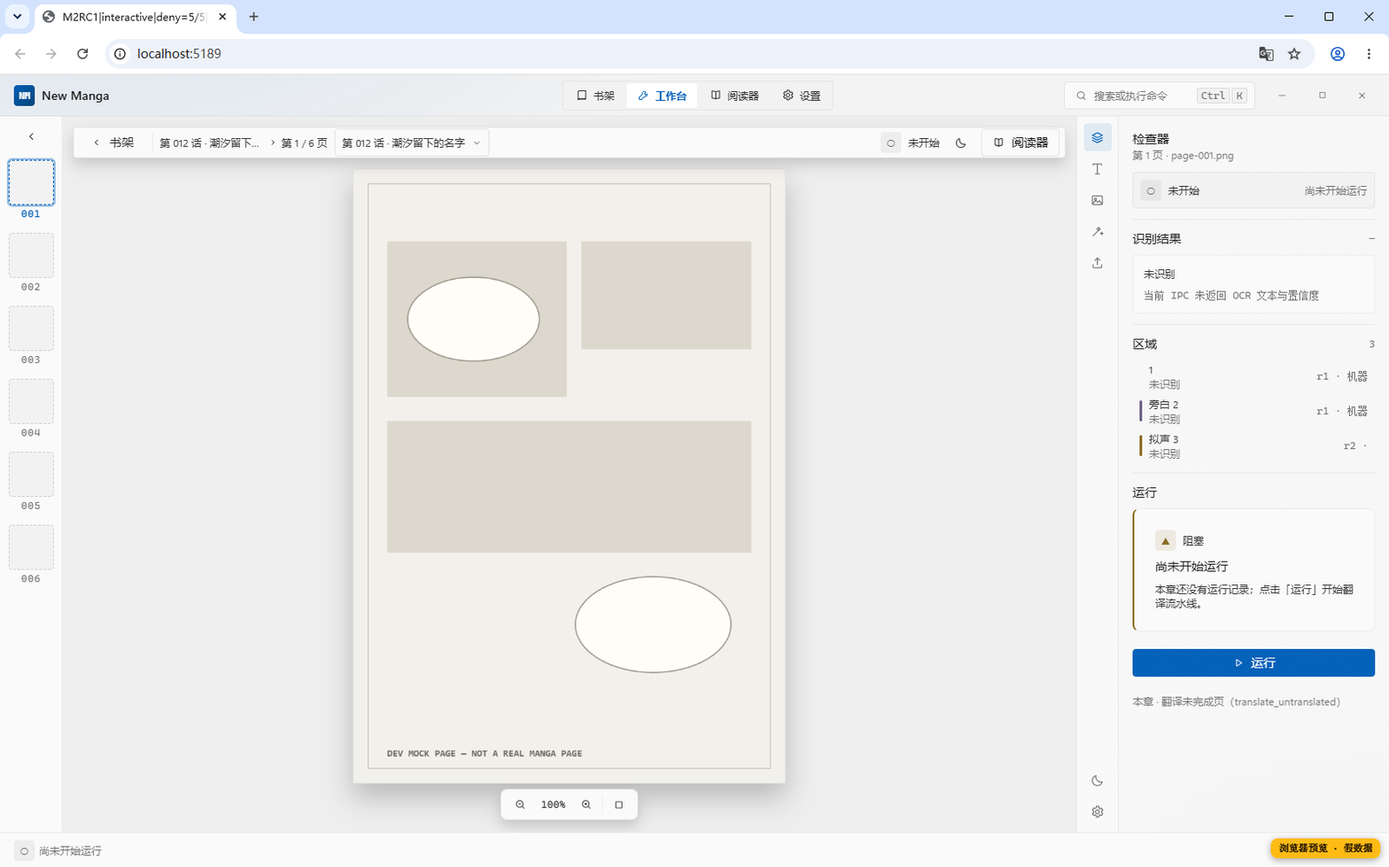
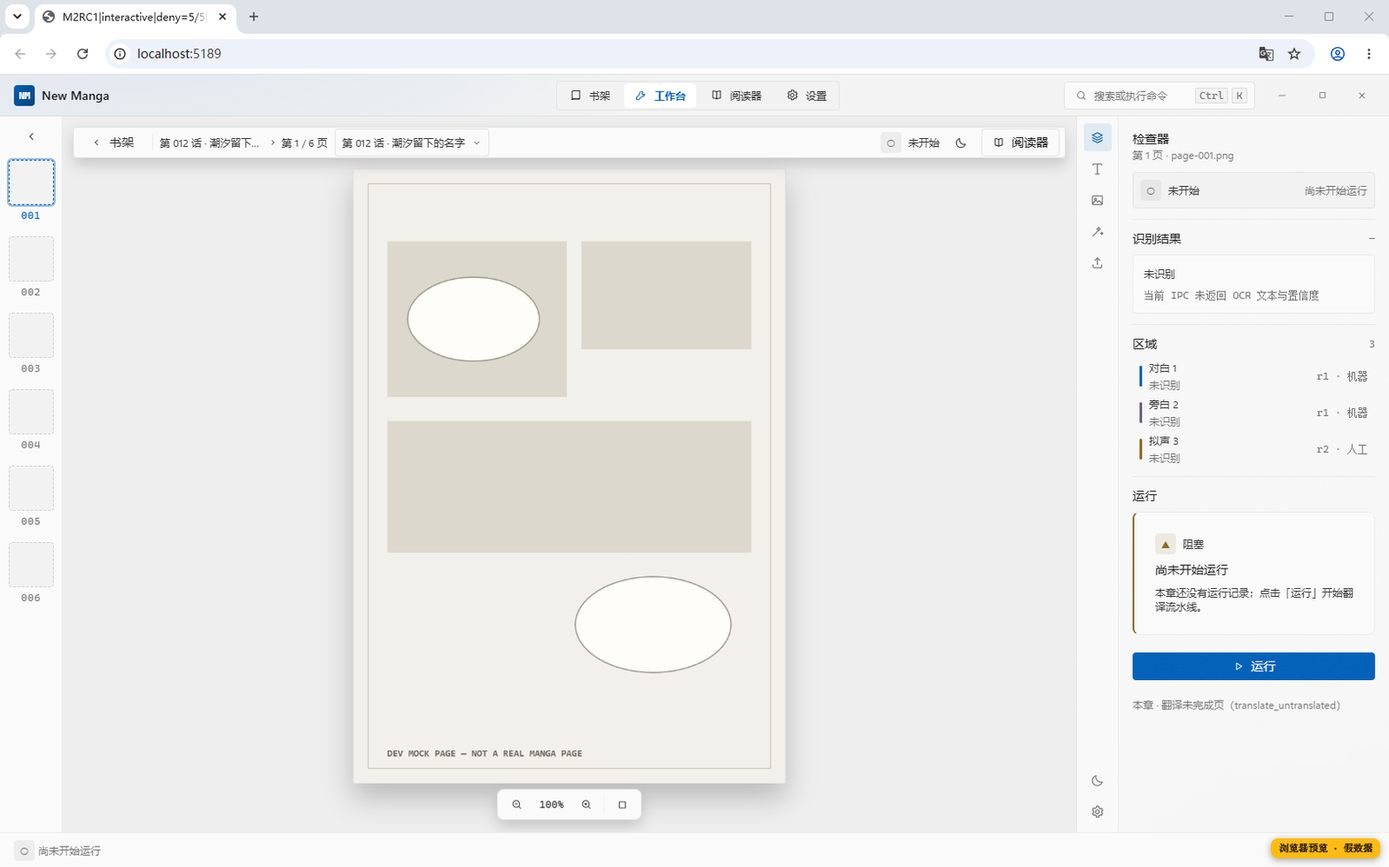
fix(ui): close the independent review findings for UIUX-V2-RUNTIME-1
ZCode r1 (verification/UIUX-V2-RUNTIME-1/review-zcode-r1.md) returned
changes_requested with 0xP0 / 1xP1 / 1xP2 / 5xP3. Disposition:

- F-1 (P1): the shelf page had zero test coverage for the honest-data rule,
  proven by the reviewer's mutation check (progress:null -> 42 kept all 561
  tests green). Adds src/pages/Shelf.test.tsx with three guards; DSH re-ran
  the mutation and the new test fails on it, then passes again after revert.
- F-2 (P2): the dev mock used out-of-enum region values (dialogue/manual/
  preserve) so the workbench inspector rendered a crippled region row in
  shots/03. Mock now uses speech|narration|sfx, machine|user and
  translate|skip; shots/03 re-captured and visual-verification.md updated
  with the finding and the fix.
- F-3: tsc/vitest evidence re-captured without the REVIEW_HEAD_PENDING
  placeholder and with an explicit collection-time note.
- F-4: PageEmpty now carries role=status, matching the other three states.
- F-5/F-7: remaining literal colours and the design-preview Esc key hint are
  registered as debt (R7) instead of widening this task's scope.
- F-6: appointment range description corrected; PrimaryNav comment updated.

tsc exit 0; vitest 60 files / 564 tests pass.

diff --git a/apps/desktop/frontend/src/pages/Shelf.test.tsx b/apps/desktop/frontend/src/pages/Shelf.test.tsx
@@ -1,0 +1,179 @@
+// @vitest-environment jsdom
+import { act } from "react";
+import { createRoot, type Root } from "react-dom/client";
+import { afterEach, beforeEach, describe, expect, it, vi } from "vitest";
+import type { BookSummary, ChapterNavSummary, PageNavSummary } from "../library/types";
+import { Shelf } from "./Shelf";
+import type { PageChrome, PageRuntime } from "../ui/types";
+
+/**
+ * 书架页「运行时不得回填 fixtures」的机械守卫。
+ *
+ * 背景（ZCode 独立审查 F-1，P1）：本 Task 的 AC8 把「跨书进度」写进诚实字段
+ * 清单，但四页里只有书架页没有反断言。审查者做变异核验——把运行时
+ * `progress: null` 改成 `progress: 42`——561 条测试全绿、零拦截，说明这条
+ * 数据纪律当时只靠人工自查兜底。
+ *
+ * 本文件只做一件事：喂进真实形状的 IPC 数据，断言书卡上**不出现**任何 fixtures
+ * 才有的字段（进度条 / 百分比 / VOL. 卷号 / 七态标记 / 假作者名）。
+ */
+
+let root: Root | undefined;
+let container: HTMLDivElement | undefined;
+
+const BOOKS: BookSummary[] = [
+  {
+    book_id: "book-1",
+    title: "雾港来信",
+    original_title: "霧港からの手紙",
+    is_favorite: true,
+    is_archived: false,
+    page_count: 128,
+    created_at: "2026-09-01T00:00:00Z",
+    updated_at: new Date(Date.now() - 12 * 60_000).toISOString(),
+  },
+  {
+    book_id: "book-2",
+    title: "白昼残响",
+    original_title: "",
+    is_favorite: false,
+    is_archived: true,
+    page_count: null,
+    created_at: "2026-09-02T00:00:00Z",
+    updated_at: new Date(Date.now() - 60 * 60_000).toISOString(),
+  },
+];
+
+const CHAPTERS: ChapterNavSummary[] = [
+  { chapter_id: "ch-1", title: "潮汐留下的名字", chapter_number: "012", sort_order: 12 },
+  { chapter_id: "ch-2", title: "第七盏路灯", chapter_number: "011", sort_order: 11 },
+];
+
+const PAGES: PageNavSummary[] = [
+  { page_id: "p-1", source_filename: "page-001.png", sort_order: 1 },
+  { page_id: "p-2", source_filename: "page-002.png", sort_order: 2 },
+  { page_id: "p-3", source_filename: "page-003.png", sort_order: 3 },
+];
+
+function makeRuntime() {
+  const library = {
+    listBooks: vi.fn(async () => BOOKS),
+    corePing: vi.fn(async () => ({
+      status: "ok",
+      protocol_version: { major: 2, minor: 1 },
+      capabilities: ["library"],
+    })),
+    listChapters: vi.fn(async () => CHAPTERS),
+    listChapterPages: vi.fn(async () => PAGES),
+  };
+  const chrome: PageChrome = {
+    theme: "dark",
+    activePage: "shelf",
+    onNavigate: vi.fn(),
+    onToggleTheme: vi.fn(),
+    onOpenCommand: vi.fn(),
+    commandOpen: false,
+    context: { bookId: null, chapterId: null },
+    onOpenBook: vi.fn(),
+    onSelectChapter: vi.fn(),
+  };
+  const runtime = {
+    chrome,
+    clients: {
+      invoke: vi.fn(async () => null),
+      library,
+      workbench: {},
+      region: {},
+      resource: {},
+      reader: {},
+      settings: {},
+    },
+  } as unknown as PageRuntime;
+  return { runtime, library, chrome };
+}
+
+async function mountShelf(runtime: PageRuntime) {
+  container = document.createElement("div");
+  document.body.appendChild(container);
+  root = createRoot(container);
+  await act(async () => {
+    root?.render(
+      <Shelf
+        activePage="shelf"
+        theme="dark"
+        onNavigate={() => undefined}
+        onToggleTheme={() => undefined}
+        runtime={runtime}
+      />,
+    );
+    // 两跳：listBooks → setState，然后 listChapters/listChapterPages → setState。
+    await Promise.resolve();
+    await Promise.resolve();
+    await Promise.resolve();
+    await Promise.resolve();
+  });
+  return container;
+}
+
+beforeEach(() => {
+  document.body.innerHTML = "";
+});
+
+afterEach(() => {
+  act(() => root?.unmount());
+  root = undefined;
+  container = undefined;
+});
+
+describe("Shelf runtime data discipline（AC8 反 fixtures 回填）", () => {
+  it("renders only IPC-backed fields and never fabricates progress/volume/state", async () => {
+    const { runtime, library } = makeRuntime();
+    const host = await mountShelf(runtime);
+
+    // 真实数据确实渲染出来了（否则下面的"不出现"断言会因空页面而假通过）。
+    expect(library.listBooks).toHaveBeenCalledTimes(1);
+    const card = host.querySelector('[data-testid="book-book-1"]');
+    expect(card).not.toBeNull();
+    expect(card?.textContent).toContain("雾港来信");
+    expect(card?.textContent).toContain("128 页");
+    // 原名只出现在详情面板（书卡只放书名/页数/更新时间）。
+    expect(host.querySelector('[data-testid="shelf-detail"]')?.textContent).toContain("霧港からの手紙");
+    // 页数未知必须显式写"页数未知"，而不是编造 0 或沿用 fixtures 数值。
+    expect(host.querySelector('[data-testid="book-book-2"]')?.textContent).toContain("页数未知");
+
+    // 跨书进度没有 IPC 来源 → 既不画进度条也不显示百分比。
+    expect(host.querySelectorAll(".nm-book-grid .nm-progress")).toHaveLength(0);
+    expect(host.querySelector(".nm-book-grid")?.textContent).not.toMatch(/\d+\s*%/);
+
+    // 卷号 / 跨书七态 / fixtures 假作者名与假计数同样不得出现。
+    expect(host.textContent).not.toContain("VOL.");
+    expect(host.querySelectorAll('.nm-book-grid [data-testid^="status-"]')).toHaveLength(0);
+    for (const fake of ["南野灯", "绫濑千景", "18 话", "1280 页", "设计预览"]) {
+      expect(host.textContent).not.toContain(fake);
+    }
+  });
+
+  it("shows real chapters and page counts without inventing chapter states", async () => {
+    const { runtime } = makeRuntime();
+    const host = await mountShelf(runtime);
+
+    const chapters = host.querySelectorAll('[data-testid="chapter-list"] li');
+    expect(chapters).toHaveLength(CHAPTERS.length);
+    expect(chapters[0].textContent).toContain("潮汐留下的名字");
+    expect(chapters[0].textContent).toContain("012");
+    // 每章页数来自 list_chapter_pages（3 页），不是 fixtures 的 24p/22p。
+    expect(chapters[0].textContent).toContain("3p");
+    expect(host.querySelector('[data-testid="chapter-list"]')?.textContent).not.toContain("24p");
+    // 章节流水线状态同样无 IPC 来源 → 不画状态标记。
+    expect(host.querySelectorAll('[data-testid="chapter-list"] [data-testid^="status-"]')).toHaveLength(0);
+  });
+
+  it("keeps the honest empty library state when Core returns no books", async () => {
+    const { runtime, library } = makeRuntime();
+    library.listBooks.mockResolvedValueOnce([]);
+    const host = await mountShelf(runtime);
+
+    expect(host.querySelector('[data-testid="shelf-empty"]')).not.toBeNull();
+    expect(host.querySelectorAll(".nm-book-card")).toHaveLength(0);
+  });
+});

diff --git a/apps/desktop/frontend/src/dev/devMockBridge.ts b/apps/desktop/frontend/src/dev/devMockBridge.ts
@@ -122,10 +122,15 @@ const EMPTY_READS: Record<string, unknown> = {
   },
   revoke_ref: { revoked: true },
   list_regions: () => ({
+    // 枚举必须取自冻结闭集（region/types.ts）：RegionType 六值
+    // speech|narration|sfx|title|note|other；RegionOrigin 四值
+    // machine|user|imported|restored；SfxPolicy 三值 skip|translate|manual。
+    // 用闭集外的值（如 dialogue / manual / preserve）会让 UI 查表得 undefined
+    // 并渲染出残缺行——ZCode 审查 F-2 就是靠截图发现这里写错了。
     regions: [
-      { region_id: "region-1", region_type: "dialogue", sfx_policy: "preserve", origin: "machine", revision_no: 1 },
-      { region_id: "region-2", region_type: "narration", sfx_policy: "preserve", origin: "machine", revision_no: 1 },
-      { region_id: "region-3", region_type: "sfx", sfx_policy: "translate", origin: "manual", revision_no: 2 },
+      { region_id: "region-1", region_type: "speech", sfx_policy: "translate", origin: "machine", revision_no: 1 },
+      { region_id: "region-2", region_type: "narration", sfx_policy: "skip", origin: "machine", revision_no: 1 },
+      { region_id: "region-3", region_type: "sfx", sfx_policy: "translate", origin: "user", revision_no: 2 },
     ],
     page_size: { width: 1440, height: 2048 },
   }),

diff --git a/apps/desktop/frontend/src/components/PrimaryNav.tsx b/apps/desktop/frontend/src/components/PrimaryNav.tsx
@@ -36,8 +36,9 @@ export interface PrimaryNavProps {
  * 方向键就再也收不到了。所以把目标记在模块级，等新页面的 PrimaryNav 挂载、
  * activePage 生效之后再 focus。
  * 契约：`onNavigate(id)` 最终必须使本组件的 `activePage` 变成 `id`，否则标记会滞留，
- * 直到之后某次激活恰好命中该值时才错误抢一次焦点。当前三个调用方都是
- * DesignPreview 直接传入的 setPage，满足契约。
+ * 直到之后某次激活恰好命中该值时才错误抢一次焦点。当前五个消费点（运行时四页经
+ * `ui/UiRoot`、静态设计预览经 `pages/DesignPreview`）都直接把自己持有的页状态
+ * 写回，满足契约。
  */
 let pendingFocusTarget: DesignPage | null = null;
 

diff --git a/apps/desktop/frontend/src/ui/PageState.tsx b/apps/desktop/frontend/src/ui/PageState.tsx
@@ -63,7 +63,7 @@ export function PageEmpty({
 }: PageEmptyProps) {
   const state: StatusState = kind === "filtered" ? "skipped" : "notStarted";
   return (
-    <div className="nm-state" data-testid={testId}>
+    <div className="nm-state" data-testid={testId} role="status">
       <span className="nm-state__icon" aria-hidden="true">
         <Icon name={icon} size={22} />
       </span>

diff --git a/verification/UIUX-V2-RUNTIME-1/review-zcode-r1.md b/verification/UIUX-V2-RUNTIME-1/review-zcode-r1.md
@@ -1,0 +1,134 @@
+# Review：UIUX-V2-RUNTIME-1（ZCode r1）
+
+decision: changes_requested
+reviewed_head: 1853f0a07
+base_commit: b51d202c9
+
+- Reviewer：ZCode（未参与本 Task 任何实现；独立只读审查 + 任命书允许的复跑与变异核验）。
+- 审查日期：2026-10-25（Asia/Shanghai）。
+- 审查方式：冻结 diff 全量精读（`git diff b51d202c9 1853f0a07`）、全部新增/改写源码与测试逐文件阅读、CSS 令牌逐值人工比对、tsc/vitest 独立复跑、两处变异核验（改坏→确认红/绿→原样还原）、证据截图 01/03/07 与活体截图（`localhost:5189` 默认路径与 `?view=console`）经视觉模型交叉核对。
+- 范围披露（审查开始时已核实）：冻结区间除 `apps/desktop/frontend/src/**` 与 `verification/UIUX-V2-RUNTIME-1/**` 外，还包含前置治理提交 `f7e63c70c`（`doc/STATUS.md`、`doc/REBASELINE_PLAN.md`、两个 `GIT-CLEAN-RUST-*` 任务卡的 Reviewer 改派，纯治理无技术内容）。任命方 DSH 已在工作树未提交的 `APPOINTMENT.md` 修订中如实披露该事实并指示跳过；本 review 的技术结论仅针对 UI 交付提交 `1853f0a07`。工作树在审查开始时已有两处 DSH 未提交改动（`doc/tasks/UIUX-V2-RUNTIME-1.md` 新增 R6 登记与上述 APPOINTMENT 修订），本审查未触碰。
+
+## 各轴结论
+
+### 1. 正确性 — PASS
+
+- 四页状态机互斥自洽：`Shelf.tsx` phase（loading/ready/empty/error）与 chaptersPhase（idle/loading/ready/error）互斥渲染（`pages/Shelf.tsx:713-767,857-898`）；`Workbench.tsx` 章节/页面/页图/区域/运行五段各自独立四态（`pages/Workbench.tsx:957-1016,1120-1300,1330-1361`）；`Reader.tsx` 用判别联合 `ReaderData`（`pages/Reader.tsx:301-320,628-712`）；`Settings.tsx` 整页 readiness 三态（`pages/Settings.tsx:224-244`）。
+- Blob URL 生命周期：工作台三重回收——`replaceImageUrl` 链式回收旧 URL（`pages/Workbench.tsx:612-617`）、页图 effect cleanup 回收 `createdUrl`（`750-756`）、组件卸载兜底回收 `currentUrlRef`（`791-798`）；阅读器 effect cleanup 回收（`pages/Reader.tsx:537-540`）。切页 revoke 有测试实证（`Workbench.test.tsx:477-485`、`Reader.test.tsx:327-328`）。
+- 轮询：`runPolling` 只在 run 存在且未终结时开 1s interval（`Workbench.tsx:878-890`），`runReadRef` 防重入（`814-844`），卸载 clearInterval 且卸载后不再取数有测试实证（`Workbench.test.tsx:413-421`：unmount 后 1200ms 窗口调用数不增）。
+- 越界保护：阅读器 `safeIndex` 渲染前收敛（`Reader.tsx:482`）、`move`/键盘翻页双向 clamp 且章末不重复写回（`561-565,571-577`，测试 `Reader.test.tsx:331-334`）；工作台页序完全由 IPC 列表派生（`Workbench.tsx:905-909`）。换章/换页重置旧状态（`Workbench.tsx:619-622,800-812`；`Reader.tsx:389-476` 换上下文全量重置）。
+- malformed 输入防御：章节/页面 `isSafeUiId` 校验，坏 ID → `PAGE_NAV_MALFORMED` 错误态而非静默渲染（`Workbench.tsx:639-645,688-692`）。
+
+### 2. 诚实数据 — PASS（实现层）；测试守卫有缺口（见 F-1、F-2）
+
+- fixtures 隔离：`PREVIEW_BOOKS`/`PREVIEW_CHAPTERS` 只在 `usePreviewView`（无 runtime）使用（`pages/Shelf.tsx:135-219`）；`STAGES`/`PAGES`/`REGIONS` 只在 `DesignWorkbench`（`pages/Workbench.tsx:50-84,249-468`）；Reader fixture 限 `ReaderFixture`。运行时组件树与 fixture 组件树互斥整页分发（`Workbench.tsx:1536-1539`、`Reader.tsx:45-50`、`Shelf.tsx:1080-1082`），不存在同树混渲染。
+- 无来源字段处理逐一核实：书架 `volume/progress/state` 运行时为 null 且渲染条件省略（`Shelf.tsx:343-365,785-811`）、页数未知标「页数未知」（`354,375`）；工作台 OCR 文本/置信度「未识别 + 当前 IPC 未返回」、区域文本「未识别」、缩略图未知占位（`nm-wb-thumb--unknown`，不画假图案）、流水线参数只渲染 IPC 真实 provider/model/device、无 run 时不画进度条（`Workbench.tsx:1246-1326,1417-1457`）；阅读器进度未知显示「—」并标错误码、书名查不到显示「—」、webtoon_vertical 显式 PageBlocked 且不拉页图（`Reader.tsx:432-449,579-712`，测试 `Reader.test.tsx:416-475,435-462`）；设置页 sfx null = 「未设置（按 Core 默认）」、设计预览逐节显式 BLOCKED 不展示数值（`Settings.tsx:210-222,349-361`）。
+- 反断言：`Workbench.test.tsx:364-382` 对 7 项 fixtures 假数据（雾港来信/manga-ocr/0.94/62%/第 12 话等）逐条 not.toContain。
+- dev mock 常驻「浏览器预览 · 假数据」角标、未列出命令 `MOCK_DENIED` 拒绝（`dev/devMockBridge.ts:233-239,313-334`）。
+- 缺口：书架页运行时数据纪律无任何测试（变异核验实证，见复跑记录 M-1 与 F-1）；dev mock region 数据违背冻结枚举（F-2）。
+
+### 3. 单一 UI — PASS
+
+- 生产窗默认只渲染 `UiRoot`：`App.tsx:529-535`（`legacyRequested ? <AppShell/> : <UiRoot/>`，AppShell 仅 `?view=legacy` 显式回退）。
+- 运行时根不 import 任何历史页面容器：`ui/UiRoot.tsx:1-20` import 清单核实（只有 `pages/Shelf|Workbench|Reader|Settings` 与共享件）；源码级守卫 `ui/UiRoot.test.tsx:142-155` 用正则断言 `UiRoot.tsx` 不含 `shell/AppShell|bookshelf/BookshelfPage|workbench/WorkbenchPage|reader/ReaderPage|settings/SettingsPage`，并断言 `App.tsx` 中 AppShell 仅出现在 legacy 三元、默认分支为 `<UiRoot`。
+- 冻结路径零改动：`App.tsx` 的冻结 diff 只有两个 hunk（+1 import、生产窗分支替换），probe/AC1/console 探测逻辑与 deny matrix 字节未动（`git diff b51d202c9 1853f0a07 -- src/App.tsx`）。
+- 活体验证：`http://localhost:5189/?view=console` headless 截图（本次活体抽查）确认冻结控制台未被 v2 样式污染（无品牌栏/亚克力/角标，deny matrix IP-1..IP-5 照常渲染）；默认路径截图确认为 v2 书架 + 假数据角标。
+- 测试：`App.test.tsx:176-178` 生产模式断言 `app-root` 存在 **且** `app-shell` 不存在。
+
+### 4. 设计规则 — PASS（含 P3 登记项）
+
+- 圆角：新增/改写 CSS 全部走 `--nm-radius-overlay|control|cell`（8/4/2）；`ui/ui.css`、`pages/workbench.css`、`pages/reader-settings.css` 逐条核对无字面圆角、无第 4 档值。唯一字面 `border-radius: 8px`（`pages.css:1254`，page-sheet 装饰内框）为 base 冻结既有且值在档。
+- 字号：新增 CSS 全走 `--nm-text-*`（28/20/14/12）；字面小字号仅存在于封面装饰（8/9/22px，`pages.css:317-348`）与漫画页占位图案（7/11px，`pages.css:1189-1324`），属 AC1 声明的「封面与漫画页等装饰字豁免」范围。`theme/tokens.ts:35-42` 字阶全部取 28/20/14/12 内的值。
+- 间距：`pages.css` 的 gap 字面值（1/2/4/5/6px）全部改走 `--nm-space-*`（冻结 diff 逐 hunk 实证，AC10）；新增 CSS 的 gap/padding/margin 全走令牌。base 既有的非 gap 字面 padding（约 21 处）与 `base.css` `.nm-chip gap:6px` 为 DESIGN-V2-IMPL-1 冻结值，本 Task 未新增，且已由 DSH 在未提交的 Task 卡修订以 R6 如实登记（建议提交该修订，见 F-6）。
+- 颜色：新增三个 CSS 文件零字面色值；运行时 TSX 内联样式仅 CSS 变量引用（`--region-tone` 取自 `REGION_TYPE_TONE` 全 var 表，`Workbench.tsx:515-522`）。字面色值仅剩三类，均为 base 冻结装饰内容：封面 tint（`Shelf.tsx:83-92`，注释声明不冒充真实封面）、漫画页占位图案色（page-sheet/filmstrip-mini）、`.nm-window-btn--close:hover #FFFFFF` 与 `.nm-command-backdrop rgba(0,0,0,0.32)`（`pages.css:161-164,624`）——后两处建议后续顺手令牌化（F-5）。
+- 无 emoji：组件与 CSS 逐文件核对无 emoji；七态由 `StatusMark` 三重编码（状态色类 + 几何符号 ◐●✗▲▨–○ + 文字 label，`components/StatusMark.tsx:23-32`；`showLabel=false` 时 label 走 `nm-sr-only` 供读屏）。
+- backdrop-filter ≤2：三档亚克力（acrylic/acrylic-24/acrylic-strong）+ `.nm-acrylic-off` 降级（`design/acrylic.css`）；`useAcrylicBudget` 统一裁决（`design/useAcrylicBudget.ts:36-76`）；四页声明层与命令面板开启时的降级（Shelf `pages/Shelf.tsx:482-487`、Workbench `pages/Workbench.tsx:562-569`、Reader `pages/Reader.tsx:377-386`、Settings `pages/Settings.tsx:146-159`）全部有测试断言同屏 `.nm-acrylic*` 计数 ≤2（`DesignPreview.test.tsx:66,82,105,124`、`Workbench.test.tsx:357-361,468-475`、`Reader.test.tsx:309-311,386-389`、`Settings.test.tsx:277-279`）。命令面板 backdrop 本身无 backdrop-filter（`pages.css:616-625`）。
+- 阴影：仅 `--nm-elevation-8/16` 两档 + focus ring（`0 0 0 Npx` 描边环，非投影）；内容面板（`.nm-state`/`.nm-stat`/`.nm-ocr-box` 等）零 box-shadow。
+
+### 5. 令牌单一真相 — PASS
+
+- 逐值人工比对：`theme/tokens.ts` 的 dark/light 全部色值与 `design/tokens.css` 对应变量逐字节一致（bg.app/rail/toolbar→canvas/mica/layer、surface.card、accent.primary/selected/hover、text.primary/secondary/muted/inverse、focus.ring、border.default/divider/selected；`state.favorite/archived` 是 `--nm-status-blocked/skipped` 的显式别名映射，其余五态同名直映）。间距 4/8/12/16/24 = `--nm-space-1..5`；圆角 4/8/2 = control/overlay/cell；字族栈归一化后相等。
+- 守卫：`theme/tokens.test.ts` 用 23 条硬编码「TS 字段 ↔ CSS 变量」连线对 dark+light 逐值断言（`tokens.test.ts:34-89`，映射写死防命名猜测假断言），另覆盖间距/圆角/字阶四档/字族/Proxy 切换。
+- 主题切换影响内联样式消费者：`tokens` 是 Proxy，顶层属性按 `activeTheme` 现取（`tokens.ts:177-194`）；`useThemeController` 渲染期同步 `setTokenTheme(theme)` 保证首帧即正确主题（`ui/theme.ts:44-46`），setter 先写令牌再触发 React 更新（`58-71`）；`<html data-theme>` 由 layout effect 同步驱动 CSS 变量层（`48-56`）。
+- 模块级常量冻结（R1）：`settings/SectionField.tsx:29-63` 把 `settingsInputStyle/settingsSelectStyle` 改为「键集合固定、取值按当前主题现算」的访问器属性对象（注释说明不用 Proxy 的 ownKeys 原因），`theme/themeReactiveStyles.test.ts` 3 条直接断言常量随主题换值 + 键集稳定。这是唯一被触碰的既有 settings 文件，与 Task 声称一致。
+
+### 6. 可访问性 — PASS
+
+- 命令面板（`ui/CommandPalette.tsx`）：Tab 圈禁（`trapTab` 首末环绕，`113-130`）；面板 Esc + window 级 Esc 双保险（`81-87,134-137`）；`aria-activedescendant` 随高亮项更新、`role=combobox/listbox/option` + `aria-selected`（`199-243`）；关闭后焦点还原唤起元素（cleanup `isConnected` 防护，`89-95`）；开面板即聚焦输入框（effect 内同步 focus，注释说明为何不用 rAF，`69-74`）。7 条测试覆盖全通路（`CommandPalette.test.tsx:57-171`，含「焦点逃到面板外 Esc 仍生效」「Tab 从末项绕回首项」「关闭还原 opener 焦点」）。
+- PrimaryNav：roving tabindex（当前页 tabIndex=0 其余 -1）、←→/Home/End 切页、跨页 pendingFocusTarget 机制（切页卸载旧页后焦点落到新页同名 tab）、点击也走焦点路径（`components/PrimaryNav.tsx:42-106`；测试 `DesignPreview.test.tsx:167-199`）。
+- 设置页分节 tablist：roving tabindex + ↑↓/Home/End + 同步 focus，主题/页脚不进 tablist，tabpanel `aria-labelledby` 关联（`pages/Settings.tsx:184-206,321-348`；测试 `Settings.test.tsx:317-349`）。
+- 错误面：`PageError` 为 `role="alert"` 且必显错误码（`ui/PageState.tsx:98-106`），四页全部经它呈现（测试断言 role 与 code：`Workbench.test.tsx:436-441`、`Reader.test.tsx:401-402`、`Settings.test.tsx:211-212`）。`PageLoading` 为 `role="status" aria-live="polite"`；书架浮动状态条同为 status。翻页按钮 disabled 时 aria-label/title 带原因（`Reader.tsx:596-609,813-825`）。
+- 观察项：`PageEmpty` 无显式 role（F-4，非阻塞——空态文本对读屏可读，且空态非动态插入）。
+
+### 7. 证据可核查性 — PASS（复现成功，见复跑记录）
+
+- tsc/vitest 均已由本审查者独立复跑并复现（退出码与计数完全一致）。
+- 截图核对：`shots/01`（书架深色）与 `visual-verification.md` 第 01 条一致；`shots/07`（命令面板）与第 07 条一致（含「4/5 可用」计数、当前页命令禁用并标注「已在当前页」）；`shots/03`（工作台）与第 03 条描述「显示真实区域 3 条」字面相符——但第 3 条区域行实为残缺渲染（首行类型标签缺失、色条不可见、末行 origin 空），自查未发现，见 F-2。
+- NOT_RUN/HUMAN_VERIFY 如实：真实 Tauri + Python Core 端到端、WebView2 渲染差异、高 DPI 均登记为未验证（`visual-verification.md` §未验证项），Task 卡 AC12 对应行标注 NOT_RUN，未冒充通过。
+- 小项：`tsc-run.txt` 首行为 `REVIEW_HEAD_PENDING` 占位标记（F-3）；活体抽查两路径（默认 + `?view=console`）与证据/冻结预期一致。
+
+### 8. 范围合规 — PASS（含流程披露项 F-6）
+
+- `git diff --name-status b51d202c9 1853f0a07`：技术改动全部落在 `apps/desktop/frontend/src/**`（32 文件）与 `verification/UIUX-V2-RUNTIME-1/**`（14 文件），均在 Task `allowed_paths` 内；另有前置治理提交 `f7e63c70c` 的 4 个 doc 文件（Reviewer 改派，无技术内容），DSH 已在 APPOINTMENT 未提交修订中披露并指示跳过（F-6 建议提交该修订以消除入库版范围描述与事实的偏差）。
+- 零依赖改动：diff 中无 `package.json` / `package-lock.json`。无 Rust（`src-tauri`）、无 Python、无 IPC 契约/Schema 改动。
+- 既有测试改动核对（冻结 diff 逐 hunk）：仅 `App.test.tsx` 与 `DesignPreview.test.tsx` 两个测试文件被修改，其余测试全为新增（A）。
+  - `App.test.tsx:126-183`：生产窗断言由「AppShell 挂载 + app-nav-rail」等价迁移为「app-root 挂载 + **app-shell 不存在（新增反向断言）** + page-shelf 挂载」，`library_list_books` 包含与 `issue_resource_url` 不包含断言保留——断言密度增加，非弱化。删除的 `app-nav-rail` 断言随 AppShell 退出默认路由失效（其行为仍由保留的历史容器测试覆盖）。
+  - `DesignPreview.test.tsx:180-193`：End 键落点 reader→settings 是一级导航三页扩四页的直接后果，并把按键链改为 tab-settings，新增 shelf 的 ArrowLeft 环绕断言——净增一条断言。
+  - 无任何既有测试被删除；`SectionField.tsx` 是唯一被触碰的既有 settings 文件且仅为样式常量主题化。
+
+## Findings
+
+| id | 严重度 | 位置（文件:行） | 问题 | 依据 | 建议 |
+|---|---|---|---|---|---|
+| F-1 | P1 | `apps/desktop/frontend/src/pages/Shelf.tsx:356`（`progress: null`）及 `343-365` 整个 `viewBooks` 映射 | 书架页运行时「无 fixtures 回填」纪律**零测试守卫**：AC8 的字段清单明确包含「跨书进度」，四页中唯独书架没有反断言；现有测试的书架 mock 全为空列表（`UiRoot.test.tsx:20`、`App.test.tsx:151-153`），fixtures 断言只覆盖设计预览分支（`DesignPreview.test.tsx`） | 变异核验 M-1（见复跑记录）：把 `progress: null` 改为 `progress: 42`（运行时书卡将渲染假进度条 +「42%」），全量 561 条测试**全部保持绿色**，零拦截 | 补一条书架运行时测试：mock ≥1 本真实形状的书，断言书卡不渲染 `.nm-progress`/百分比/`volume`/state 标记（可并入 `UiRoot.test.tsx` 或新建 `Shelf.test.tsx`）。实现当前正确（截图 01 无假进度），属测试债而非行为缺陷 |
+| F-2 | P2 | `apps/desktop/frontend/src/dev/devMockBridge.ts:126-128`；消费端 `pages/Workbench.tsx:1314-1322`；证据 `shots/03-workbench-real-data.png` | dev mock 的 `list_regions` 返回冻结闭集外的枚举值：`region_type: "dialogue"`（冻结六值闭集为 speech/narration/sfx/title/note/other，`region/types.ts:14-21`）与 `origin: "manual"`（闭集 machine/user/imported/restored，`region/types.ts:37`）。`RegionClient.listRegions` 只校验 regions 数组不校验枚举（`region/client.ts:87-92`），UI 查表（`REGION_TYPE_LABEL/TONE`、`ORIGIN_LABEL`）得 undefined → dev 预览区域行残缺：截图 03 经视觉模型核实，首行标签只剩「1」、竖直色条不可见，末行 origin 文字为空。垫片头部「只读命令返回**形状合法**的固定样例数据」（`devMockBridge.ts:14`）对 region 通道不成立；`visual-verification.md` 第 03 条未登记该缺陷。生产不受影响（Core 侧六值闭集门 + UI 对六个合法值全覆盖） | `region/types.ts:14-37` 冻结枚举；截图 03 视觉核对结论（本次审查）；`Workbench.tsx:1302-1326` 直接索引无 fallback | region-1 `region_type` 改 `"speech"`、region-3 `origin` 改 `"user"`（保留「人工改过」语义）；重截 `shots/03` 并在 `visual-verification.md` 补记本次缺陷与修复 |
+| F-3 | P3 | `verification/UIUX-V2-RUNTIME-1/tsc-run.txt:1` | 证据首行为 `REVIEW_HEAD_PENDING` 占位标记：tsc 输出在 reviewed_head 确定前采集，入库为 CANONICAL 时未移除占位或披露时序（vitest-run.txt 无此问题） | 文件内容 | 后续证据模板加一行「采集时点」说明，或复跑时以实际 head 回填；本次不阻塞（命令/退出码/输出可独立复现） |
+| F-4 | P3 | `apps/desktop/frontend/src/ui/PageState.tsx:66`（PageEmpty 根节点） | `PageEmpty` 无显式 role（PageLoading=status、PageError=alert、PageBlocked=status）；空态文本读屏可读且非动态插入，影响轻微 | 同文件其余三态对照 | 可选：加 `role="status"` 保持四态一致 |
+| F-5 | P3 | `apps/desktop/frontend/src/pages/pages.css:161-164,624`；`pages/Shelf.tsx:83-92` | base 冻结既有的字面色值（close 悬停 `#FFFFFF`、命令面板遮罩 `rgba(0,0,0,0.32)`）与封面 tint 字面色板未走 `--nm-*`；任命轴 4 口径下无「装饰色」豁免条款（豁免只写了装饰字） | 冻结 diff 证实非本 Task 新增 | 后续令牌化或设计规范补「装饰内容色」豁免；与 R6 一并归入债务 Task |
+| F-6 | P3 | `verification/UIUX-V2-RUNTIME-1/APPOINTMENT.md`（入库版第 9 行）；`doc/tasks/UIUX-V2-RUNTIME-1.md`（R6 修订） | 入库版任命书声称审查范围「全部为 frontend/src + verification」与冻结区间事实不符（含治理提交 f7e63c70c 的 4 个 doc 文件）；DSH 工作树未提交修订已修正该描述并在 Task 卡补 R6（21 处非 gap 字面间距）登记，两处修订尚未提交 | `git diff --name-status b51d202c9 1853f0a07` 与工作树 diff | 随本 review 处置一并提交这两处修订；另 `components/PrimaryNav.tsx:39-41`「当前三个调用方」注释已过时（现为四页运行时 + 设计预览共五个消费点），可顺手更新 |
+| F-7 | P3 | `apps/desktop/frontend/src/pages/Reader.tsx:286-290`（对照 `134-137` 注释承诺） | 设计预览 fixture 底栏保留「Esc 返回」keyhint 但无 Esc 处理，与同文件「没实现的键不留提示」的自诫相悖。冻结 diff 证实为 base（DESIGN-V2-IMPL-1 骨架）既有、本 Task 原样保留；运行时分支无此假提示 | `git show b51d202c9:.../Reader.tsx` 第 199-204 行同内容 | 后续设计预览债务清理时移除该 keyhint 或实现 Esc |
+
+## 复跑记录
+
+| # | 命令（cwd=`apps/desktop/frontend`） | 结果 | 与证据比对 |
+|---|---|---|---|
+| R-1 | `node node_modules/typescript/bin/tsc --noEmit` | exit 0，无输出 | = `tsc-run.txt`（exit_code 0、output 空）✅ |
+| R-2 | `npx vitest run --reporter=basic` | exit 0；Test Files 59 passed (59)；Tests 561 passed (561)；Duration 5.98s | = `vitest-run.txt`（59/561/exit 0）✅ |
+| M-1（变异核验①） | 将 `pages/Shelf.tsx:356` 运行时 `progress: null` 改为 `progress: 42` → 先跑 `src/ui/UiRoot.test.tsx src/App.test.tsx src/pages/DesignPreview.test.tsx`，再全量 `npx vitest run` | 相关 3 文件 21 passed；全量 59 files / 561 passed 全绿、exit 0 —— **变异未被任何测试拦截** | 实证 F-1（书架诚实数据无守卫） |
+| M-2（变异核验②） | 将 `ui/UiRoot.tsx:47` `initialPage = "shelf"` 改为 `"workbench"` → `npx vitest run src/ui/UiRoot.test.tsx` | 2 failed（mounts the shelf page by default…；flips the html data-theme…）/ 4 passed，exit 1 —— 守卫有效 | 证明运行时根测试有判别力 |
+| M-1/M-2 还原 | 两处变异均用 Edit 原样改回（未使用 git checkout）；还原后 `git diff --stat -- src/` 为空、`git status --porcelain` 中 src 零条目；复跑 `src/ui/UiRoot.test.tsx src/pages/DesignPreview.test.tsx` | 16 passed，exit 0，恢复绿色 ✅ | 工作树 src 与 reviewed_head 逐字节一致（reviewed_head→HEAD 间仅 doc 类提交，src 零漂移，已核 `git diff --name-only 1853f0a07 HEAD`） |
+| L-1（活体抽查） | `curl http://localhost:5189/` → 200；Chrome `--headless=new --window-size=1600,1000 --virtual-time-budget=6000` 截默认路径与 `?view=console`（截图存 `G:\CODEX\New Manga.workspace\UIUX-V2-RUNTIME-1\review-zcode-shots\`，仓外） | 默认路径 = v2 书架 + 黄色「浏览器预览 · 假数据」角标、书卡无假进度条（视觉模型核对）；console 路径 = 冻结控制台外观（M2-RC2 标题、IP-1..IP-5 deny matrix PASS 行、无 v2 样式/无角标） | 与 `visual-verification.md` 及冻结路径预期一致 ✅ |
+| 证据截图核对 | `shots/01`、`shots/03`、`shots/07` 经视觉模型逐项核对 | 01/07 与描述逐项一致；03 与描述字面一致但暴露 F-2 的区域行残缺（描述未登记） | 见轴 7 与 F-2 |
+| NOT_RUN 项 | 「临时改坏再还原」按用户授权执行（即 M-1/M-2）；除此之外未修改任何源码/测试/文档 | — | — |
+
+## 对 AC1–AC13 的逐项判断
+
+- **AC1 令牌单一真相 + 主题可切换 — 判定成立**。逐值比对一致 + 23 条连线守卫 + R1 修复（访问器常量 + 3 条守卫）+ 截图 02/08 佐证；本审查另做人工逐值核对（轴 5）。
+- **AC2 v2 运行时根 — 判定成立**。`UiRoot` 唯一运行时根；`?view=design|legacy`、probe/AC1 语义保持（App.tsx diff 仅两 hunk，冻结路径零触碰）。
+- **AC3 书架真实数据 — 判定成立（含保留）**。双数据源 + `library_list_books`/`core_ping`/`list_chapters`/`list_chapter_pages` 真实读取 + 既有对话框复用，fixtures 不退化（10 例）。保留：运行时数据纪律无测试（F-1）。
+- **AC4 工作台真实数据 — 判定成立**。全链路（章节→页→资源→Blob→区域→运行投影）+ 9 例测试含反断言/轮询停/Blob revoke/malformed 防御。
+- **AC5 阅读器真实数据 — 判定成立**。投影+写回+页图+翻页+章末不越界（8 例）；webtoon_vertical 显式 BLOCKED 且不拉资源（`Reader.test.tsx:435-462`）。
+- **AC6 设置页 v2 — 判定成立**。12 分节挂既有真实 panel、`settings_get` 失败整页 PageError 不挂 panel（`Settings.test.tsx:205-230`）、SFX 真实状态、设计预览诚实 BLOCKED。
+- **AC7 单一 UI 收口 — 判定成立**。默认路由仅 `UiRoot`；AppShell 仅 `?view=legacy`；源码级守卫 + App.test 反向断言 + 活体验证。
+- **AC8 三/四态与诚实数据 — 实现成立，证据主张 PARTIAL**。四态共用 PageState、错误码必显、无来源字段省略/标未知（实现与三页测试均核实）；但 AC8 证据句「三个页面测试文件中的『无 fixtures 回填』断言」如实反映了书架不在其中——书架页无守卫（F-1，变异实证）。
+- **AC9 命令面板与键盘全通路 — 判定成立**。Tab 圈禁/Esc/焦点还原/aria-activedescendant/↑↓/Home/End/Enter 全通路 + Ctrl+1..4（7 例 + UiRoot 集成 2 例）。
+- **AC10 设计层债务清理 — 判定成立**。base.test 守卫自指对照（缩进/@media 盲区）；`:root` color-scheme 作用域化到 `:where(html[data-view])`（base→属性存在性泛化，活体验证 console 路径无泄漏）；`.nm-shelf`/`.nm-mica` 背景收敛；pages.css gap 全令牌化（diff 逐 hunk 实证）。
+- **AC11 构建与测试 — 判定成立（本审查复现）**。tsc exit 0 无输出；vitest 59/561/exit 0，与入库证据一致。
+- **AC12 真机视觉自查 — 判定成立（其自查范围内）**。11 张截图与描述核对一致（01/07 逐项、03 字面一致但见 F-2）；NOT_RUN（真实 Core 端到端）如实登记为 HUMAN_VERIFY，未冒充。
+- **AC13 独立审查 — 本 review 即其交付**。判定完成后由 DSH 回填。
+
+## 结论与放行条件
+
+**decision: changes_requested**（0×P0；1×P1；1×P2；5×P3）。
+
+总体评价：这是一次质量显著高于平均水准的交付——单一 UI 收口有源码级机械守卫、诚实数据纪律在实现层全面贯彻、令牌镜像有逐值连线测试、可访问性通路完整且有判别力测试、证据链可复现（tsc/vitest/截图/活体全部由本审查独立复现）、范围纪律良好（冻结路径零触碰、依赖零改动、既有测试无弱化）。变异核验 M-2 证明运行时根守卫真实有效。
+
+不放行（changes_requested）的唯一硬性原因是 **F-1（P1）**：任命书 P1 定义「测试不足以支撑主张」——AC8 把「跨书进度」明确列入诚实字段清单并主张四页纪律，而书架页该纪律为零测试覆盖，变异核验实证 561 条测试无一拦截假进度回填。修复成本极低（一条测试），但不修复则该主张在书架页仅靠人工自查兜底。
+
+放行条件（按 APPOINTMENT 处置规则）：
+
+1. **必须（P1，F-1）**：补书架页运行时反 fixtures 回填测试（mock 真实形状书 ≥1 本，断言无 `.nm-progress`/百分比/volume/state 回填），通过后提交至新 head。
+2. **必须（P2，F-2）**：`devMockBridge.ts` 的 region mock 枚举改合法值（`region_type`→`speech` 等、`origin`→`user`），重截 `shots/03` 并在 `visual-verification.md` 补记。
+3. **建议随处置提交**：F-6 的 APPOINTMENT/R6 两处工作树修订（已由 DSH 撰写）；F-3 证据时序披露；F-4/F-5/F-7 登记为债务（可并入 R6 的后续「控件几何 + 间距令牌」Task 或设计预览清理 Task）。
+4. 修复后重新定位审查（同一失败上限 2 次）：本审查者可只做增量复审（F-1/F-2 修复 + 全量复跑），无需重走全部八轴。
+5. 真实 Tauri + Python Core 端到端维持 HUMAN_VERIFY 不变，不因本 review 解除。

diff --git a/verification/UIUX-V2-RUNTIME-1/visual-verification.md b/verification/UIUX-V2-RUNTIME-1/visual-verification.md
@@ -50,3 +50,29 @@ npm run dev -- --port 5189
 ```
 
 注意：`devMockBridge` 只在 `import.meta.env.DEV` 下安装；真实 Tauri 桥存在时绝不覆盖。
+
+## ZCode 独立审查 r1 的处置（2026-10-25）
+
+审查结论：`changes_requested`，0×P0 / 1×P1 / 1×P2 / 5×P3（`review-zcode-r1.md`）。逐条处置：
+
+| finding | 严重度 | 处置 | 证据 |
+|---|---|---|---|
+| F-1 书架页运行时诚实数据零测试守卫（审查者变异核验：`progress: null → 42` 后 561 条测试全绿） | P1 | **已修复**：新增 `src/pages/Shelf.test.tsx` 三条守卫（真实书卡字段、无 `.nm-progress`/百分比/VOL./七态、章节页数来自 IPC 而非 fixtures、空书架态）。DSH 复做变异核验：改回 `progress: 42` → 新测试 1 failed；还原 → 3 passed，工作树零残留 | `vitest-run.txt`（60 文件/564 passed）、本文件下方"变异核验" |
+| F-2 dev mock 的 `region_type`/`origin` 用冻结闭集外的值 → 区域行残缺、本文件未登记 | P2 | **已修复**：改为 `speech`/`narration`/`sfx` + `machine`/`user`，`sfx_policy` 改为闭集内 `translate`/`skip`；重截 `shots/03` 并更新本文件第 03 行 | `shots/03-workbench-real-data.png` |
+| F-3 tsc 证据首行留有 `REVIEW_HEAD_PENDING` 占位 | P3 | **已修复**：重采 `tsc-run.txt`/`vitest-run.txt`，去掉占位并标注采集时点 | `tsc-run.txt` |
+| F-4 `PageEmpty` 无显式 role | P3 | **已修复**：`PageEmpty` 根节点加 `role="status"`，四态 role 一致 | `src/ui/PageState.tsx` |
+| F-5 两处字面色值（close 悬停 `#FFFFFF`、命令面板遮罩 `rgba(0,0,0,0.32)`）未令牌化 | P3 | **登记为债务**：均为 DESIGN-V2-IMPL-1 冻结既有值，本 Task 未新增；并入 R6 的后续"控件几何 + 间距/装饰色令牌"Task | Task 卡 R6 |
+| F-6 入库版任命书范围描述与冻结区间不符；PrimaryNav 注释过时 | P3 | **已修复**：任命书范围描述已在本次提交修订；`PrimaryNav.tsx` 注释更新为"五个消费点（运行时四页经 UiRoot + 设计预览）" | `APPOINTMENT.md`、`components/PrimaryNav.tsx` |
+| F-7 设计预览 fixture 底栏保留未实现的「Esc 返回」keyhint | P3 | **登记为债务**：base（DESIGN-V2-IMPL-1 骨架）既有、运行时分支无此假提示；并入设计预览清理 Task | Task 卡 R7 |
+
+修复后回归：`tsc --noEmit` exit 0；`vitest run` **60 文件 / 564 passed / 0 skipped**，exit 0。
+
+### 变异核验（DSH 复做，证明 F-1 守卫有判别力）
+
+```
+改 src/pages/Shelf.tsx 运行时 progress: null → progress: 42
+npx vitest run src/pages/Shelf.test.tsx
+→ Tests 1 failed | 2 passed   （新守卫拦截）
+还原后
+→ Tests 3 passed              （工作树 git status 对 src/ 无输出）
+```

diff --git a/verification/UIUX-V2-RUNTIME-1/APPOINTMENT.md b/verification/UIUX-V2-RUNTIME-1/APPOINTMENT.md
@@ -6,7 +6,7 @@
 - **审查对象（冻结）**：
   - `base_commit` = `b51d202c9ffab869d26bdb15b38459147991685c`
   - `reviewed_head` = `1853f0a0795ca93a26f6a41efc6c14bd77a3c7b1`
-  - 审查范围 = `git diff b51d202c9 1853f0a07`（全部为 `apps/desktop/frontend/src/**` 与 `verification/UIUX-V2-RUNTIME-1/**`）
+  - 审查范围 = `git diff b51d202c9 1853f0a07`。**注意**：该区间还包含一个前置治理提交 `f7e63c70c`（把两个休眠 Rust Task 的 Reviewer 从已停用的 Antigravity 改派为 ZCode，只动 4 个 doc 文件）。它不属于本 Task 的技术交付，审查时请跳过；技术变更全部在 `apps/desktop/frontend/src/**` 与 `verification/UIUX-V2-RUNTIME-1/**`。
 - **唯一写入路径**：`verification/UIUX-V2-RUNTIME-1/review-zcode-r1.md`
   - 审查者**只允许**创建/写入这一个文件。不得修改任何源码、测试、Task 卡、STATUS、PLAN、TASK_LEDGER 或其它证据文件。
   - 只读可访问：仓库全部文件、dev server（`localhost:5189`）、`npx vitest`、`node node_modules/typescript/bin/tsc --noEmit`。
